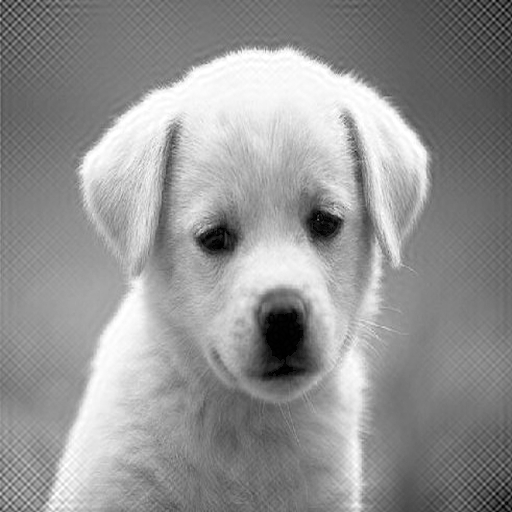
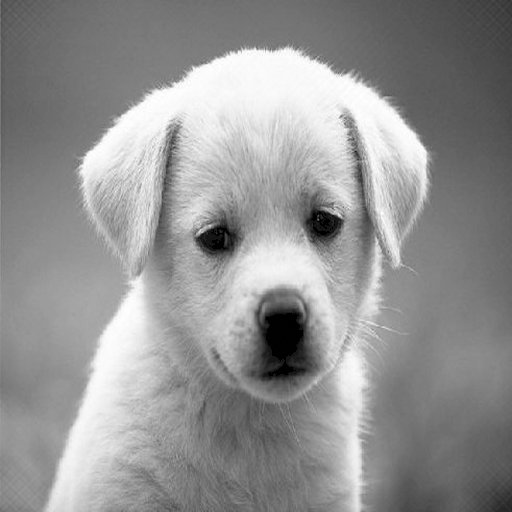
finished denoise1 in fourier

diff --git a/task2/fourier.py b/task2/fourier.py
@@ -121,7 +121,7 @@ def high_pass_filter(img, r=20):
             temp[i,j] = rvfour[i,j].real
     return temp
 
-def denoise1(img, r1=50, r2=70):
+def denoise1(img):
     '''
     Use adequate technique(s) to denoise the image.
     Hint: Use fourier transform
@@ -133,14 +133,19 @@ def denoise1(img, r1=50, r2=70):
     h = img.shape[0]
     w = img.shape[1]
 
-    #scan thorugh image
-    for i in range(h):
-        for j in range(w):
+    #find mean value to substitute part that's causing noise   
+    subval = np.mean(fmspec[170:190,170:190])
 
-            coor = (i - (h)/2)**2 + (j - (w)/2)**2
-            if coor>=r1**2 and coor<=r2**2:
-                fmspec[i, j] = 1
+    #scan thorugh
+    nvals = [[203,203], [175,175], [309,309], [337,337], [203, 309], [175, 337], [309, 203], [337, 175]]
 
+    for i in nvals:
+        for x in range(i[0]-3, i[0]+4):
+            for y in range(i[1]-3, i[1]+4):
+                fmspec[x,y] = subval
+
+
+                    
     rvshift = ifftshift(fmspec)
     rvfour = np.fft.ifft2(rvshift)
     rvfour = np.abs(rvfour)
@@ -166,7 +171,6 @@ def denoise2(img, r1=27, r2=28):
     #scan thorugh image
     for i in range(h):
         for j in range(w):
-            
             coor = (i - (h)/2)**2 + (j - (w)/2)**2
             if coor>=r1**2 and coor<=r2**2:
                 if not((i>h/2-5 and i<h/2+5) and (j>h/2-5 and j<h/2+5)):
